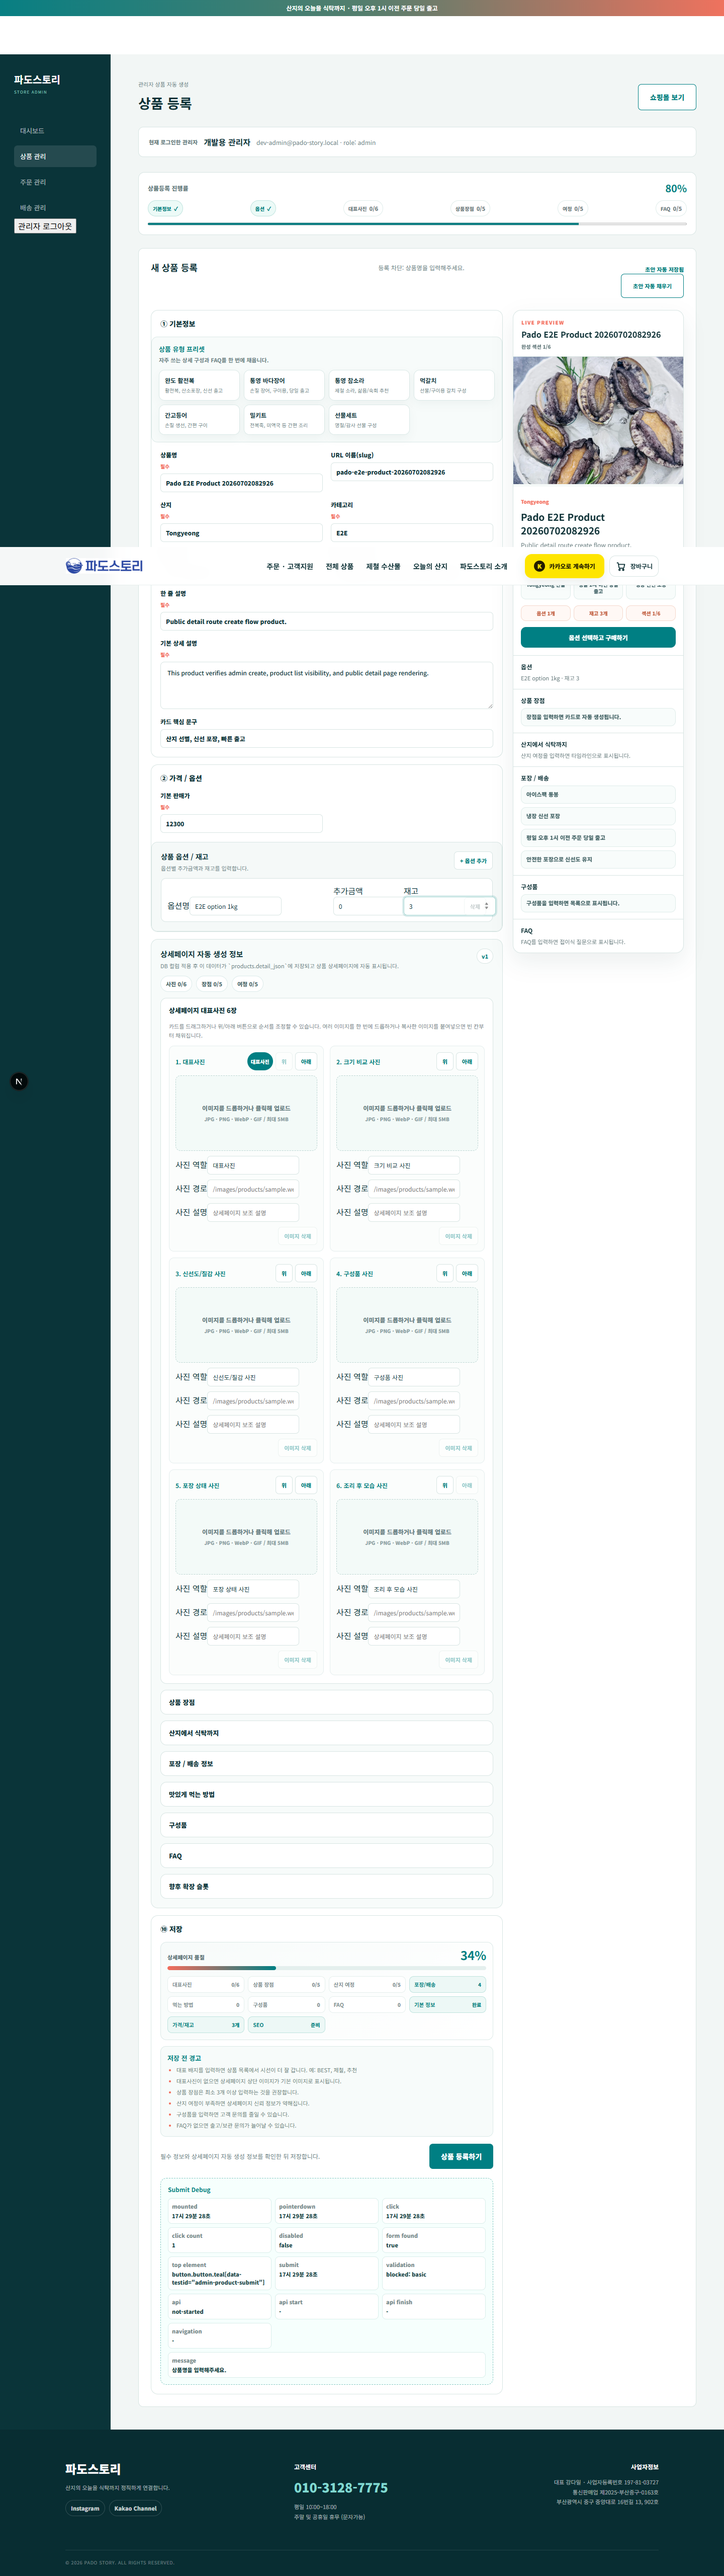
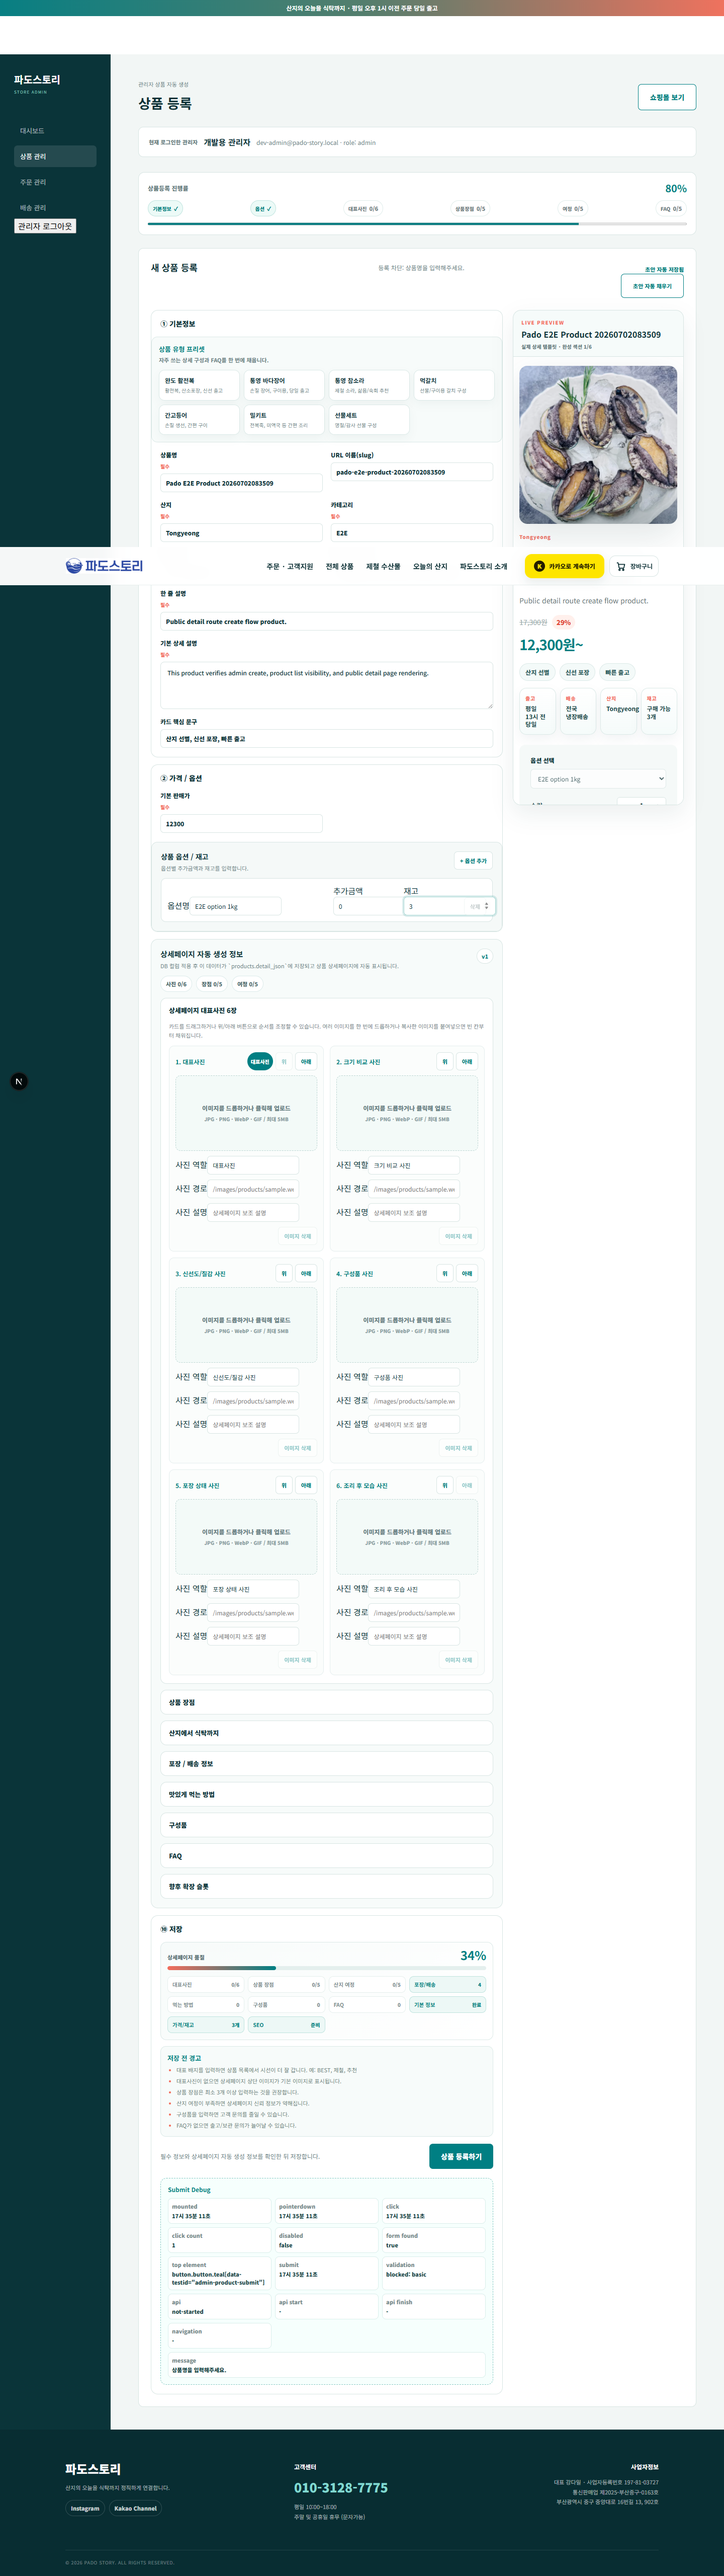
Render real detail template in admin preview

Changed region(s): [[0.6875, 0.1242, 0.9688, 0.3727]]

diff --git a/components/admin/ProductDetailPreview.tsx b/components/admin/ProductDetailPreview.tsx
@@ -1,14 +1,18 @@
 "use client";
 
-import { useState } from "react";
-import { formatPrice, type ProductOption } from "@/data/products";
+import { useMemo, useState } from "react";
+import { formatPrice, type Product, type ProductOption } from "@/data/products";
+import { ProductDetailTemplate } from "@/components/products/ProductDetailTemplate";
 import { getVisibleProductDetailSections } from "@/lib/products/detail-sections";
 import type { ProductDetail } from "@/lib/products/detail";
 
 type PreviewForm = {
   name: string;
+  slug?: string;
   origin: string;
+  category?: string;
   subtitle: string;
+  description?: string;
   basePrice: string;
   imageUrl: string;
   badge: string;
@@ -20,129 +24,120 @@ type Props = {
   detail: ProductDetail;
 };
 
+function buildPreviewProduct(form: PreviewForm, options: Props["options"], detail: ProductDetail): Product {
+  const price = Number(form.basePrice) || 0;
+  const normalPrice = price > 0 ? price + (price >= 40000 ? 6000 : 5000) : 0;
+  const discountRate = price > 0 && normalPrice > 0 ? Math.max(0, Math.round((1 - price / normalPrice) * 100)) : 0;
+  const image = form.imageUrl || detail.heroImages.find((item) => item.url)?.url || "/images/products/wando-abalone.webp";
+  const visibleSections = getVisibleProductDetailSections(detail);
+  const previewOptions = options
+    .filter((option) => option.label)
+    .map((option, index) => ({
+      id: `preview-option-${index}`,
+      label: option.label,
+      priceDelta: Number(option.priceDelta ?? 0),
+      stock: Number(option.stock ?? 0)
+    }));
+
+  return {
+    id: "admin-preview",
+    slug: form.slug || "admin-preview-product",
+    origin: form.origin || "산지 미입력",
+    category: form.category || "미분류",
+    name: form.name || "상품명 미입력",
+    subtitle: form.subtitle || "상품의 핵심 설명이 여기에 표시됩니다.",
+    price,
+    normalPrice,
+    discountRate,
+    image,
+    badge: form.badge || undefined,
+    description: form.description || form.subtitle || "관리자가 입력한 상세 설명이 실제 상품 상세페이지와 동일한 템플릿으로 표시됩니다.",
+    detailImages: visibleSections.heroImages.length ? visibleSections.heroImages.map((item) => item.url) : [image],
+    options: previewOptions.length ? previewOptions : [{ id: "preview-option-default", label: "기본 옵션", priceDelta: 0, stock: 0 }],
+    highlights: visibleSections.benefits.length ? visibleSections.benefits.slice(0, 4) : ["산지 선별", "신선 포장", "빠른 출고"],
+    shippingInfo: {
+      title: "평일 오후 1시 이전 주문 당일 출고",
+      body: "상품 특성에 맞춰 아이스팩, 보냉재, 냉장 포장으로 신선하게 배송합니다."
+    },
+    exchangeInfo: {
+      title: "신선식품 특성상 단순 변심 교환/반품 제한",
+      body: "상품 이상이나 오배송은 수령 즉시 사진과 함께 고객센터로 문의해주세요."
+    },
+    originInfo: {
+      title: form.origin || "산지 미입력",
+      body: "상품별 산지 기준으로 선별 후 출고합니다."
+    },
+    producerInfo: {
+      title: `${form.origin || "산지"} 생산자`,
+      body: "관리자가 입력한 생산자 정보가 상세페이지에 반영됩니다."
+    },
+    isActive: true,
+    detail
+  };
+}
+
+function PreviewPurchaseSlot({ product }: { product: Product }) {
+  const firstOption = product.options[0];
+  const optionPrice = product.price + Number(firstOption?.priceDelta ?? 0);
+
+  return (
+    <div className="purchase-box admin-preview-purchase-box" aria-label="구매 영역 미리보기">
+      <label>옵션 선택</label>
+      <select value={firstOption?.id ?? ""} disabled>
+        {product.options.map((option) => (
+          <option key={option.id} value={option.id}>
+            {option.label} {option.priceDelta ? `(${formatPrice(product.price + option.priceDelta)})` : ""}
+          </option>
+        ))}
+      </select>
+      <div className="quantity-row">
+        <span>수량</span>
+        <div>
+          <button type="button" disabled>-</button>
+          <b>1</b>
+          <button type="button" disabled>+</button>
+        </div>
+      </div>
+      <div className="total-row">
+        <span>예상 결제금액</span>
+        <strong>{optionPrice > 0 ? formatPrice(optionPrice) : "가격 미입력"}</strong>
+      </div>
+      <div className="purchase-actions">
+        <button type="button" className="button outline" disabled>장바구니</button>
+        <button type="button" className="button teal" disabled>구매하기</button>
+      </div>
+      <small>미리보기에서는 실제 장바구니/결제 동작이 실행되지 않습니다.</small>
+    </div>
+  );
+}
+
 export function ProductDetailPreview({ form, options, detail }: Props) {
   const [viewMode, setViewMode] = useState<"mobile" | "desktop">("mobile");
-  const price = Number(form.basePrice) || 0;
-  const fallbackImage = form.imageUrl || "/images/products/wando-abalone.webp";
-  const { heroImages, benefits, journey, packaging, components, faq } = getVisibleProductDetailSections(detail);
-  const mainImage = heroImages[0]?.url || fallbackImage;
-  const validOptions = options.filter((option) => option.label);
-  const totalStock = validOptions.reduce((sum, option) => sum + Number(option.stock ?? 0), 0);
+  const product = useMemo(() => buildPreviewProduct(form, options, detail), [form, options, detail]);
   const completedSections = [
-    heroImages.length,
-    benefits.length,
-    journey.length,
-    packaging.length,
-    components.length,
-    faq.length
+    getVisibleProductDetailSections(detail).heroImages.length,
+    getVisibleProductDetailSections(detail).benefits.length,
+    getVisibleProductDetailSections(detail).journey.length,
+    getVisibleProductDetailSections(detail).packaging.length,
+    getVisibleProductDetailSections(detail).components.length,
+    getVisibleProductDetailSections(detail).faq.length
   ].filter(Boolean).length;
 
   return (
-    <aside className={`admin-live-preview ${viewMode === "desktop" ? "desktop-preview" : "mobile-preview"}`} aria-label="상세페이지 미리보기">
+    <aside className={`admin-live-preview template-preview ${viewMode === "desktop" ? "desktop-preview" : "mobile-preview"}`} aria-label="상세페이지 미리보기">
       <div className="admin-live-preview-head">
         <div>
           <span>LIVE PREVIEW</span>
           <strong>{form.name || "상품명을 입력하세요"}</strong>
-          <small>완성 섹션 {completedSections}/6</small>
+          <small>실제 상세 템플릿 · 완성 섹션 {completedSections}/6</small>
         </div>
         <div className="admin-preview-mode" aria-label="미리보기 화면 크기">
           <button type="button" className={viewMode === "mobile" ? "active" : ""} onClick={() => setViewMode("mobile")}>모바일</button>
           <button type="button" className={viewMode === "desktop" ? "active" : ""} onClick={() => setViewMode("desktop")}>PC</button>
         </div>
       </div>
-      <div className="admin-live-preview-image">
-        <img
-          src={mainImage}
-          alt="대표 이미지 미리보기"
-          onError={(event) => {
-            if (event.currentTarget.dataset.fallbackApplied) return;
-            event.currentTarget.dataset.fallbackApplied = "true";
-            event.currentTarget.src = fallbackImage;
-          }}
-        />
-        {form.badge && <em>{form.badge}</em>}
-      </div>
-      {heroImages.length > 1 && (
-        <div className="admin-live-preview-thumbs" aria-label="대표사진 슬라이더 미리보기">
-          {heroImages.slice(0, 6).map((image, index) => (
-            <span key={`${image.url}-${index}`} className={index === 0 ? "active" : ""}>
-              <img
-                src={image.url}
-                alt={`${image.label} 썸네일`}
-                onError={(event) => {
-                  if (event.currentTarget.dataset.fallbackApplied) return;
-                  event.currentTarget.dataset.fallbackApplied = "true";
-                  event.currentTarget.src = fallbackImage;
-                }}
-              />
-            </span>
-          ))}
-        </div>
-      )}
-      <div className="admin-live-preview-body">
-        <span>{form.origin || "산지 미입력"}</span>
-        <h3>{form.name || "상품명 미입력"}</h3>
-        <p>{form.subtitle || "상품 한 줄 설명이 여기에 표시됩니다."}</p>
-        <strong>{price ? `${formatPrice(price)}~` : "가격 미입력"}</strong>
-        <div className="admin-preview-assurance" aria-label="고객 신뢰 요소 미리보기">
-          <span>{form.origin || "산지"} 선별</span>
-          <span>평일 1시 이전 당일 출고</span>
-          <span>냉장 신선 포장</span>
-        </div>
-        <div className="admin-preview-summary">
-          <span>옵션 {validOptions.length}개</span>
-          <span>{totalStock > 0 ? `재고 ${totalStock}개` : "재고 확인 필요"}</span>
-          <span>섹션 {completedSections}/6</span>
-        </div>
-        <button type="button" className="admin-preview-cta">옵션 선택하고 구매하기</button>
-      </div>
-      <div className="admin-live-preview-section">
-        <b>옵션</b>
-        {validOptions.length ? (
-          validOptions.map((option, index) => (
-            <span key={`${option.label}-${index}`}>{option.label} · 재고 {option.stock ?? 0}</span>
-          ))
-        ) : (
-          <span>옵션을 입력하면 표시됩니다.</span>
-        )}
-      </div>
-      <div className="admin-live-preview-section admin-preview-card-grid">
-        <b>상품 장점</b>
-        {benefits.length ? benefits.slice(0, 5).map((item) => <span key={item}>{item}</span>) : <span>장점을 입력하면 카드로 자동 생성됩니다.</span>}
-      </div>
-      <div className="admin-live-preview-section admin-preview-timeline">
-        <b>산지에서 식탁까지</b>
-        {journey.length ? (
-          journey.slice(0, 5).map((step, index) => (
-            <span key={`${step.key}-${index}`}>
-              <em>{index + 1}</em>
-              {step.title || `단계 ${index + 1}`}
-            </span>
-          ))
-        ) : (
-          <span>산지 여정을 입력하면 타임라인으로 표시됩니다.</span>
-        )}
-      </div>
-      <div className="admin-live-preview-section admin-preview-card-grid">
-        <b>포장 / 배송</b>
-        {packaging.length ? packaging.slice(0, 4).map((item) => <span key={item}>{item}</span>) : <span>배송 안내가 자동 표시됩니다.</span>}
-      </div>
-      <div className="admin-live-preview-section admin-preview-card-grid">
-        <b>구성품</b>
-        {components.length ? components.map((item) => <span key={item}>{item}</span>) : <span>구성품을 입력하면 목록으로 표시됩니다.</span>}
-      </div>
-      <div className="admin-live-preview-section admin-preview-faq">
-        <b>FAQ</b>
-        {faq.length ? (
-          faq.slice(0, 3).map((item, index) => (
-            <details key={`${item.question}-${index}`} open={index === 0}>
-              <summary>Q. {item.question || "질문 미입력"}</summary>
-              <p>{item.answer || "답변 미입력"}</p>
-            </details>
-          ))
-        ) : (
-          <span>FAQ를 입력하면 접이식 질문으로 표시됩니다.</span>
-        )}
+      <div className="admin-live-preview-surface">
+        <ProductDetailTemplate product={product} purchaseSlot={<PreviewPurchaseSlot product={product} />} />
       </div>
     </aside>
   );

diff --git a/app/globals.css b/app/globals.css
@@ -265,3 +265,4 @@
 .admin-duplicate-slug-action{display:flex;align-items:center;justify-content:space-between;gap:12px;margin-top:10px;padding:12px;border:1px solid #ffd2be;border-radius:10px;background:#fff8f5;color:#a84425}.admin-duplicate-slug-action span{font-size:12px;font-weight:850;line-height:1.45}.admin-duplicate-slug-action .button{flex:none;padding:10px 13px}.admin-detail-link{width:max-content;margin-top:10px;padding:10px 13px}.admin-actions a{display:inline-flex;align-items:center;justify-content:center;border:1px solid var(--line);border-radius:7px;background:#fff;color:var(--teal);padding:7px 9px;font-size:11px;font-weight:900}
 .admin-product-preview-notice{display:flex;align-items:center;gap:12px;margin-top:18px;margin-bottom:8px;border:1px solid #ffd2be;border-radius:12px;background:#fff8f5;color:#8f3f25;padding:13px 15px}.admin-product-preview-notice strong{flex:none;color:#bd512f;font-size:12px;font-weight:950}.admin-product-preview-notice span{font-size:12px;font-weight:800;line-height:1.45}.admin-product-preview-notice a{margin-left:auto;border:1px solid #ffd2be;border-radius:999px;background:#fff;color:#a84425;padding:8px 11px;font-size:11px;font-weight:950}.admin-product-unavailable{display:grid;gap:13px;margin-top:70px;margin-bottom:90px;border:1px solid #dbe9e7;border-radius:18px;background:#fff;padding:34px;box-shadow:0 18px 44px rgba(7,48,53,.08)}.admin-product-unavailable strong{color:var(--coral);font-size:12px;font-weight:950}.admin-product-unavailable h1{margin:0;font-size:30px;letter-spacing:-.04em}.admin-product-unavailable p{max-width:680px;margin:0;color:var(--muted);font-size:14px;line-height:1.8}.admin-product-unavailable .button{width:max-content}
 @media(max-width:700px){.admin-product-preview-notice{align-items:flex-start;flex-direction:column;margin-top:12px;padding:12px}.admin-product-preview-notice a{margin-left:0;width:100%;text-align:center}.admin-product-unavailable{margin-top:36px;padding:24px}.admin-product-unavailable h1{font-size:24px}.admin-product-unavailable .button{width:100%}}
+.admin-live-preview.template-preview{overflow:hidden;background:#f6fbfa}.admin-live-preview-surface{max-height:calc(100vh - 210px);overflow:auto;background:#fff;scrollbar-width:thin}.admin-live-preview-surface .detail-page{padding:0}.admin-live-preview-surface .shell{width:min(100% - 24px,1180px)}.admin-live-preview-surface .detail-master{background:#fff}.admin-live-preview-surface .detail-master-hero{grid-template-columns:1fr;gap:18px;padding:18px 0 34px}.admin-live-preview-surface .detail-master-hero-media{position:relative;top:auto;min-height:0;aspect-ratio:1/1;border-radius:16px}.admin-live-preview-surface .detail-master-hero-copy{padding-top:0}.admin-live-preview-surface .detail-master-hero-copy h1{font-size:30px}.admin-live-preview-surface .detail-master-hero-copy>p{font-size:14px;line-height:1.6}.admin-live-preview-surface .detail-master-price strong{font-size:28px}.admin-live-preview-surface .detail-master-trust,.admin-live-preview-surface .detail-master-feature-grid,.admin-live-preview-surface .detail-master-overview,.admin-live-preview-surface .detail-master-advantage-grid,.admin-live-preview-surface .detail-master-timeline,.admin-live-preview-surface .detail-master-cooking,.admin-live-preview-surface .detail-master-package ul,.admin-live-preview-surface .detail-master-extra{grid-template-columns:1fr}.admin-live-preview-surface .detail-master-block{padding:34px 0}.admin-live-preview-surface .detail-master-title h2{font-size:25px}.admin-live-preview-surface .detail-master-story{grid-template-columns:1fr;padding:20px;border-radius:18px}.admin-live-preview-surface .detail-master-story>div:last-child{min-height:190px}.admin-live-preview-surface .detail-master-package{grid-template-columns:1fr}.admin-live-preview-surface .detail-master-nav{display:none}.admin-live-preview-surface .sticky-purchase-bar,.admin-live-preview-surface .mobile-purchase-bar{display:none}.admin-preview-purchase-box{box-shadow:none}.admin-preview-purchase-box button:disabled,.admin-preview-purchase-box select:disabled{opacity:.72;cursor:not-allowed}.admin-live-preview.desktop-preview{width:min(100%,920px)}.admin-live-preview.desktop-preview .admin-live-preview-surface .detail-master-hero{grid-template-columns:minmax(0,1.02fr) minmax(330px,.88fr);gap:30px}.admin-live-preview.desktop-preview .admin-live-preview-surface .detail-master-hero-media{aspect-ratio:4/5}.admin-live-preview.desktop-preview .admin-live-preview-surface .detail-master-trust,.admin-live-preview.desktop-preview .admin-live-preview-surface .detail-master-feature-grid,.admin-live-preview.desktop-preview .admin-live-preview-surface .detail-master-overview,.admin-live-preview.desktop-preview .admin-live-preview-surface .detail-master-advantage-grid{grid-template-columns:repeat(2,minmax(0,1fr))}.admin-live-preview.desktop-preview .admin-live-preview-surface .detail-master-timeline{grid-template-columns:repeat(3,minmax(0,1fr))}

diff --git a/WORKLOG.md b/WORKLOG.md
@@ -785,3 +785,17 @@
 - `pnpm run verify:admin` 성공
 - 관리자 검증 상품 상세 200 / 고객 검증 상품 상세 404 확인
 - 관리자 숨김 상품 상세 200 / 고객 숨김 상품 상세 404 확인
+## 2026-07-02 관리자 상세페이지 Preview 실제 템플릿 전환
+### 완료 작업
+
+- 관리자 상품 등록/수정 화면의 Live Preview를 축약형 전용 UI에서 실제 `ProductDetailTemplate` 렌더링 방식으로 전환했습니다.
+- 입력 중인 폼/옵션/detail_json 값을 임시 `Product` 모델로 변환해 실제 `/products/[slug]` 상세페이지와 동일한 컴포넌트 구조로 미리보기합니다.
+- Preview 구매 영역은 실제 장바구니/결제가 실행되지 않는 안전한 `PreviewPurchaseSlot`으로 대체했습니다.
+- 모바일/PC 미리보기 모드에서 실제 상세 템플릿이 관리자 패널 안에 안정적으로 들어가도록 preview 전용 CSS를 보강했습니다.
+- `verify:admin-static`에 실제 상세 템플릿 preview 사용 여부를 검증하는 조건을 추가했습니다.
+
+### 검증
+- `pnpm run build` 성공
+- `pnpm run verify:admin-new-click` 성공
+- `pnpm run verify:admin` 성공
+- 관리자 등록 Preview 렌더링 및 실제 등록 플로우 콘솔 오류 없음 확인

diff --git a/TEST_REPORT.md b/TEST_REPORT.md
@@ -859,3 +859,17 @@
 ### 생성된 검증 케이스
 
 - `scripts/verify-admin-private-detail.mjs`
+## 2026-07-02 관리자 Preview 실제 상세 템플릿 전환 검증
+
+### 검증 범위
+
+- 관리자 Live Preview가 `ProductDetailTemplate`을 직접 사용하는지 확인
+- Preview 전용 구매 영역이 실제 결제/장바구니 동작 없이 표시되는지 확인
+- `/admin/new` 실제 등록 플로우에서 Preview 렌더링으로 인한 콘솔 오류가 없는지 확인
+- 기존 상품 등록, detail_json 저장, 상세페이지 200 검증 유지 확인
+
+### 결과
+
+- `pnpm run build`: 성공
+- `pnpm run verify:admin-new-click`: 성공
+- `pnpm run verify:admin`: 성공
